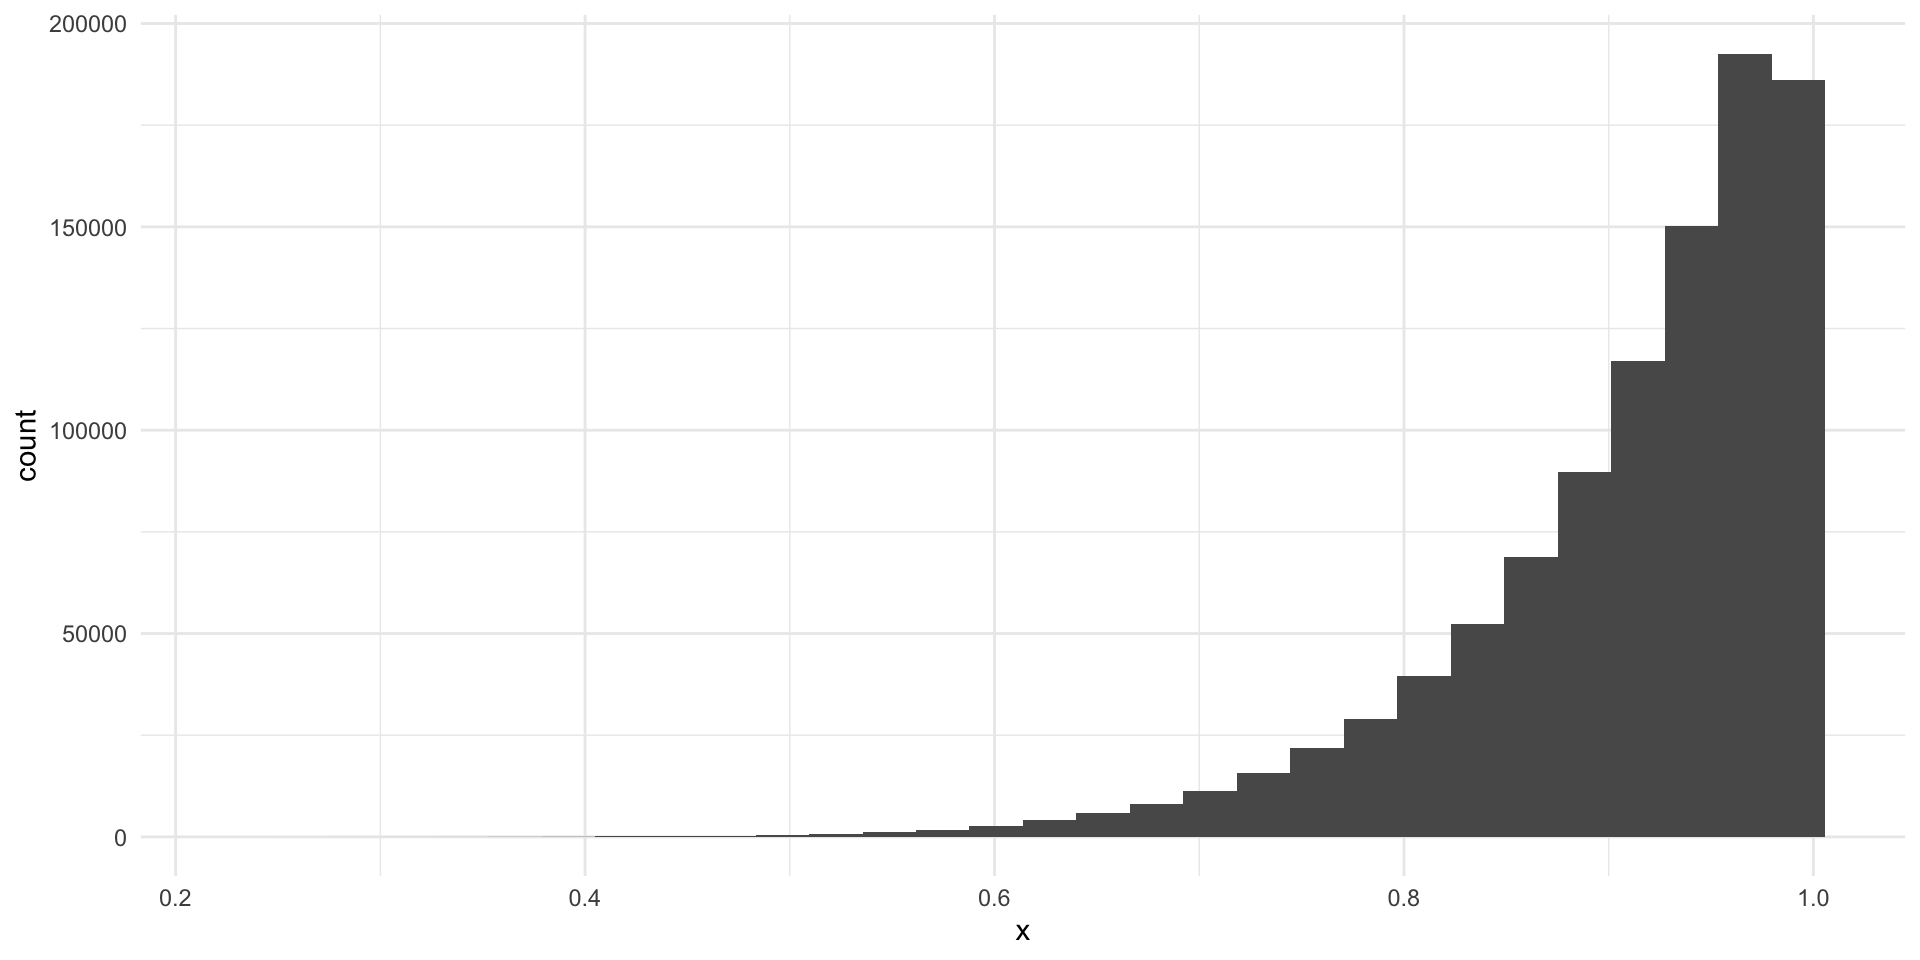
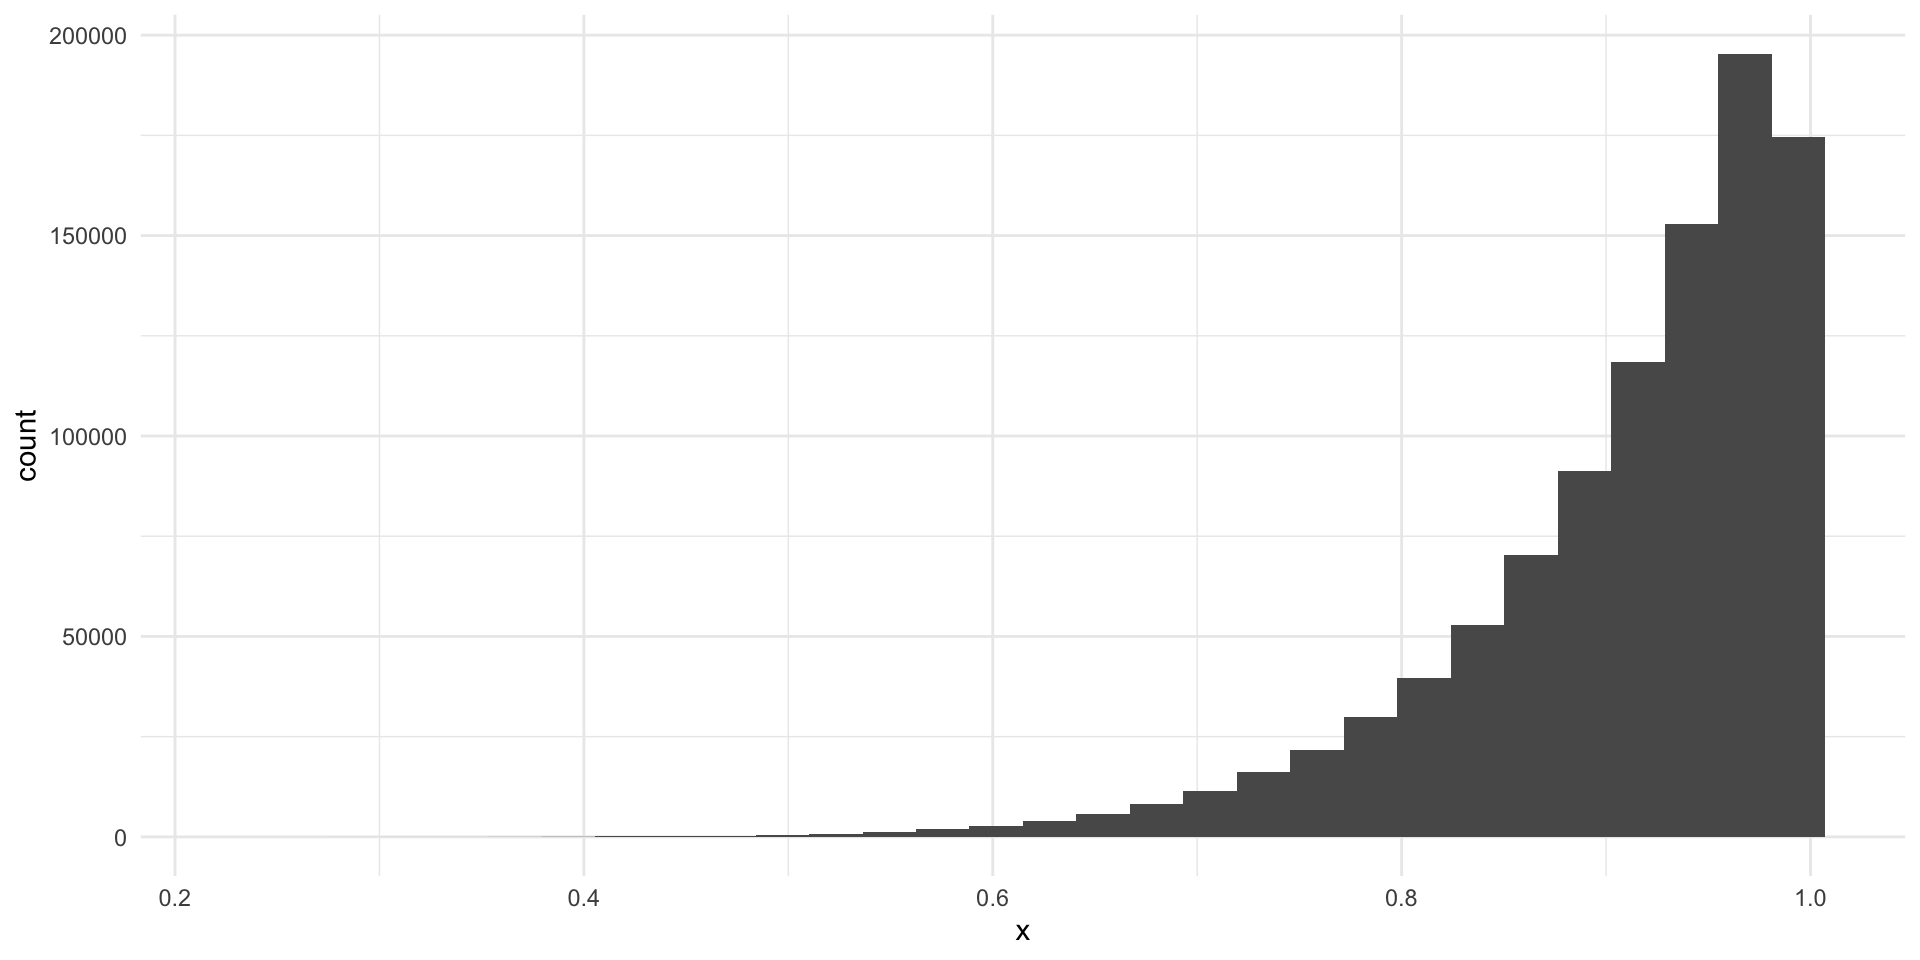
Better wording

diff --git a/docs/content/02-content.html b/docs/content/02-content.html
@@ -360,7 +360,7 @@ code span.wa { color: #60a0b0; font-weight: bold; font-style: italic; } /* Warni
 </section>
 <section id="describing-continuous-variables" class="level3">
 <h3 class="anchored" data-anchor-id="describing-continuous-variables">Describing continuous variables</h3>
-<p>We need to treat continuous variables differently from categorical ones because they cannot meaningfully be bounded together and compared. For example, imagine making a frequency table or bar chart that counts the number of countries with each observed GDP. You would have 193 different counts of one. Useless!</p>
+<p>We need to treat continuous variables differently from categorical ones because they cannot meaningfully be bounded together and compared. For example, imagine making a frequency table or bar chart that counts the number of countries with each observed GDP. You would have 193 different counts of one. Not very helpful!</p>
 <p>We can get a much better sense of our continuous variables by looking at characteristics of the <strong>distribution</strong> of these variables across the range of all possible values they could take on. Phew! Let’s make sense of this using some real-world data.</p>
 <section id="case-study-comparing-countries-spending-on-education" class="level4">
 <h4 class="anchored" data-anchor-id="case-study-comparing-countries-spending-on-education">Case study: Comparing countries’ spending on education</h4>
@@ -769,18 +769,18 @@ s^2 = \frac{\Sigma(x_i - \bar{x})^2}{n - 1}
 <span id="cb27-8"><a href="#cb27-8" aria-hidden="true" tabindex="-1"></a>wide_var_calc</span></code><button title="Copy to Clipboard" class="code-copy-button"><i class="bi"></i></button></pre></div>
 <div class="cell-output cell-output-stdout">
 <pre><code># A tibble: 1,000,000 × 4
-         x      mean    diff  diff_2
-     &lt;dbl&gt;     &lt;dbl&gt;   &lt;dbl&gt;   &lt;dbl&gt;
- 1 -0.0798 -0.000462 -0.0793 0.00629
- 2  2.88   -0.000462  2.88   8.28   
- 3 -2.52   -0.000462 -2.52   6.34   
- 4  3.16   -0.000462  3.16   9.97   
- 5 -1.51   -0.000462 -1.51   2.27   
- 6 -0.158  -0.000462 -0.158  0.0249 
- 7  1.83   -0.000462  1.83   3.34   
- 8 -1.20   -0.000462 -1.20   1.44   
- 9 -0.544  -0.000462 -0.544  0.295  
-10 -1.69   -0.000462 -1.69   2.87   
+        x     mean   diff diff_2
+    &lt;dbl&gt;    &lt;dbl&gt;  &lt;dbl&gt;  &lt;dbl&gt;
+ 1 -1.42  -0.00134 -1.41   2.00 
+ 2 -3.22  -0.00134 -3.22  10.4  
+ 3 -2.59  -0.00134 -2.59   6.70 
+ 4  2.94  -0.00134  2.95   8.68 
+ 5  2.02  -0.00134  2.03   4.10 
+ 6  0.522 -0.00134  0.523  0.274
+ 7 -0.402 -0.00134 -0.401  0.161
+ 8 -1.43  -0.00134 -1.43   2.04 
+ 9 -0.730 -0.00134 -0.729  0.531
+10  1.94  -0.00134  1.94   3.77 
 # ℹ 999,990 more rows</code></pre>
 </div>
 </div>
@@ -790,7 +790,7 @@ s^2 = \frac{\Sigma(x_i - \bar{x})^2}{n - 1}
 <span id="cb29-2"><a href="#cb29-2" aria-hidden="true" tabindex="-1"></a></span>
 <span id="cb29-3"><a href="#cb29-3" aria-hidden="true" tabindex="-1"></a>wide_var</span></code><button title="Copy to Clipboard" class="code-copy-button"><i class="bi"></i></button></pre></div>
 <div class="cell-output cell-output-stdout">
-<pre><code>[1] 3.999687</code></pre>
+<pre><code>[1] 4.000127</code></pre>
 </div>
 </div>
 <p>We can compare this to the variance for our narrower distribution.</p>
@@ -806,7 +806,7 @@ s^2 = \frac{\Sigma(x_i - \bar{x})^2}{n - 1}
 <span id="cb31-9"><a href="#cb31-9" aria-hidden="true" tabindex="-1"></a></span>
 <span id="cb31-10"><a href="#cb31-10" aria-hidden="true" tabindex="-1"></a>narrow_var</span></code><button title="Copy to Clipboard" class="code-copy-button"><i class="bi"></i></button></pre></div>
 <div class="cell-output cell-output-stdout">
-<pre><code>[1] 0.9985257</code></pre>
+<pre><code>[1] 1.002081</code></pre>
 </div>
 </div>
 <p>It is, in fact, smaller!</p>
@@ -815,14 +815,14 @@ s^2 = \frac{\Sigma(x_i - \bar{x})^2}{n - 1}
 <div class="sourceCode cell-code" id="cb33"><pre class="sourceCode r code-with-copy"><code class="sourceCode r"><span id="cb33-1"><a href="#cb33-1" aria-hidden="true" tabindex="-1"></a><span class="fu">var</span>(wide_dist)</span></code><button title="Copy to Clipboard" class="code-copy-button"><i class="bi"></i></button></pre></div>
 <div class="cell-output cell-output-stdout">
 <pre><code>         x
-x 3.999687</code></pre>
+x 4.000127</code></pre>
 </div>
 </div>
 <div class="cell">
 <div class="sourceCode cell-code" id="cb35"><pre class="sourceCode r code-with-copy"><code class="sourceCode r"><span id="cb35-1"><a href="#cb35-1" aria-hidden="true" tabindex="-1"></a><span class="fu">var</span>(narrow_dist)</span></code><button title="Copy to Clipboard" class="code-copy-button"><i class="bi"></i></button></pre></div>
 <div class="cell-output cell-output-stdout">
-<pre><code>          x
-x 0.9985257</code></pre>
+<pre><code>         x
+x 1.002081</code></pre>
 </div>
 </div>
 <div class="cell">
@@ -839,26 +839,26 @@ x TRUE</code></pre>
 <div class="cell">
 <div class="sourceCode cell-code" id="cb39"><pre class="sourceCode r code-with-copy"><code class="sourceCode r"><span id="cb39-1"><a href="#cb39-1" aria-hidden="true" tabindex="-1"></a><span class="fu">sqrt</span>(wide_var)</span></code><button title="Copy to Clipboard" class="code-copy-button"><i class="bi"></i></button></pre></div>
 <div class="cell-output cell-output-stdout">
-<pre><code>[1] 1.999922</code></pre>
+<pre><code>[1] 2.000032</code></pre>
 </div>
 </div>
 <div class="cell">
 <div class="sourceCode cell-code" id="cb41"><pre class="sourceCode r code-with-copy"><code class="sourceCode r"><span id="cb41-1"><a href="#cb41-1" aria-hidden="true" tabindex="-1"></a><span class="fu">sqrt</span>(narrow_var)</span></code><button title="Copy to Clipboard" class="code-copy-button"><i class="bi"></i></button></pre></div>
 <div class="cell-output cell-output-stdout">
-<pre><code>[1] 0.9992626</code></pre>
+<pre><code>[1] 1.00104</code></pre>
 </div>
 </div>
 <p>You can get this directly using <code>sd()</code>:</p>
 <div class="cell">
 <div class="sourceCode cell-code" id="cb43"><pre class="sourceCode r code-with-copy"><code class="sourceCode r"><span id="cb43-1"><a href="#cb43-1" aria-hidden="true" tabindex="-1"></a><span class="fu">sd</span>(wide_dist<span class="sc">$</span>x)</span></code><button title="Copy to Clipboard" class="code-copy-button"><i class="bi"></i></button></pre></div>
 <div class="cell-output cell-output-stdout">
-<pre><code>[1] 1.999922</code></pre>
+<pre><code>[1] 2.000032</code></pre>
 </div>
 </div>
 <div class="cell">
 <div class="sourceCode cell-code" id="cb45"><pre class="sourceCode r code-with-copy"><code class="sourceCode r"><span id="cb45-1"><a href="#cb45-1" aria-hidden="true" tabindex="-1"></a><span class="fu">sd</span>(narrow_dist<span class="sc">$</span>x)</span></code><button title="Copy to Clipboard" class="code-copy-button"><i class="bi"></i></button></pre></div>
 <div class="cell-output cell-output-stdout">
-<pre><code>[1] 0.9992626</code></pre>
+<pre><code>[1] 1.00104</code></pre>
 </div>
 </div>
 <p>If you look back to our graphs, you will see that I set the standard deviations explicitly when I generated the data: <code>rnorm()</code> takes an <code>sd</code> argument. This is great because we can confirm that the standard deviations for the wide and narrow distributions are 2 and 1 respectively (with a little bit of noise).</p>
@@ -924,12 +924,12 @@ z_i = \frac{x_i - \mu_x}{\sigma_x}
 <pre><code># A tibble: 6 × 4
       x  mean    sd z_score
   &lt;dbl&gt; &lt;dbl&gt; &lt;dbl&gt;   &lt;dbl&gt;
-1  4.56  5.00  2.00  -0.221
-2  9.96  5.00  2.00   2.48 
-3  4.54  5.00  2.00  -0.230
-4  8.81  5.00  2.00   1.90 
-5  7.72  5.00  2.00   1.36 
-6  3.10  5.00  2.00  -0.949</code></pre>
+1  3.55  5.00  2.00 -0.724 
+2  5.34  5.00  2.00  0.170 
+3  2.25  5.00  2.00 -1.37  
+4  5.35  5.00  2.00  0.175 
+5  5.11  5.00  2.00  0.0555
+6  6.06  5.00  2.00  0.529 </code></pre>
 </div>
 </div>
 <p>We can confirm this:</p>
